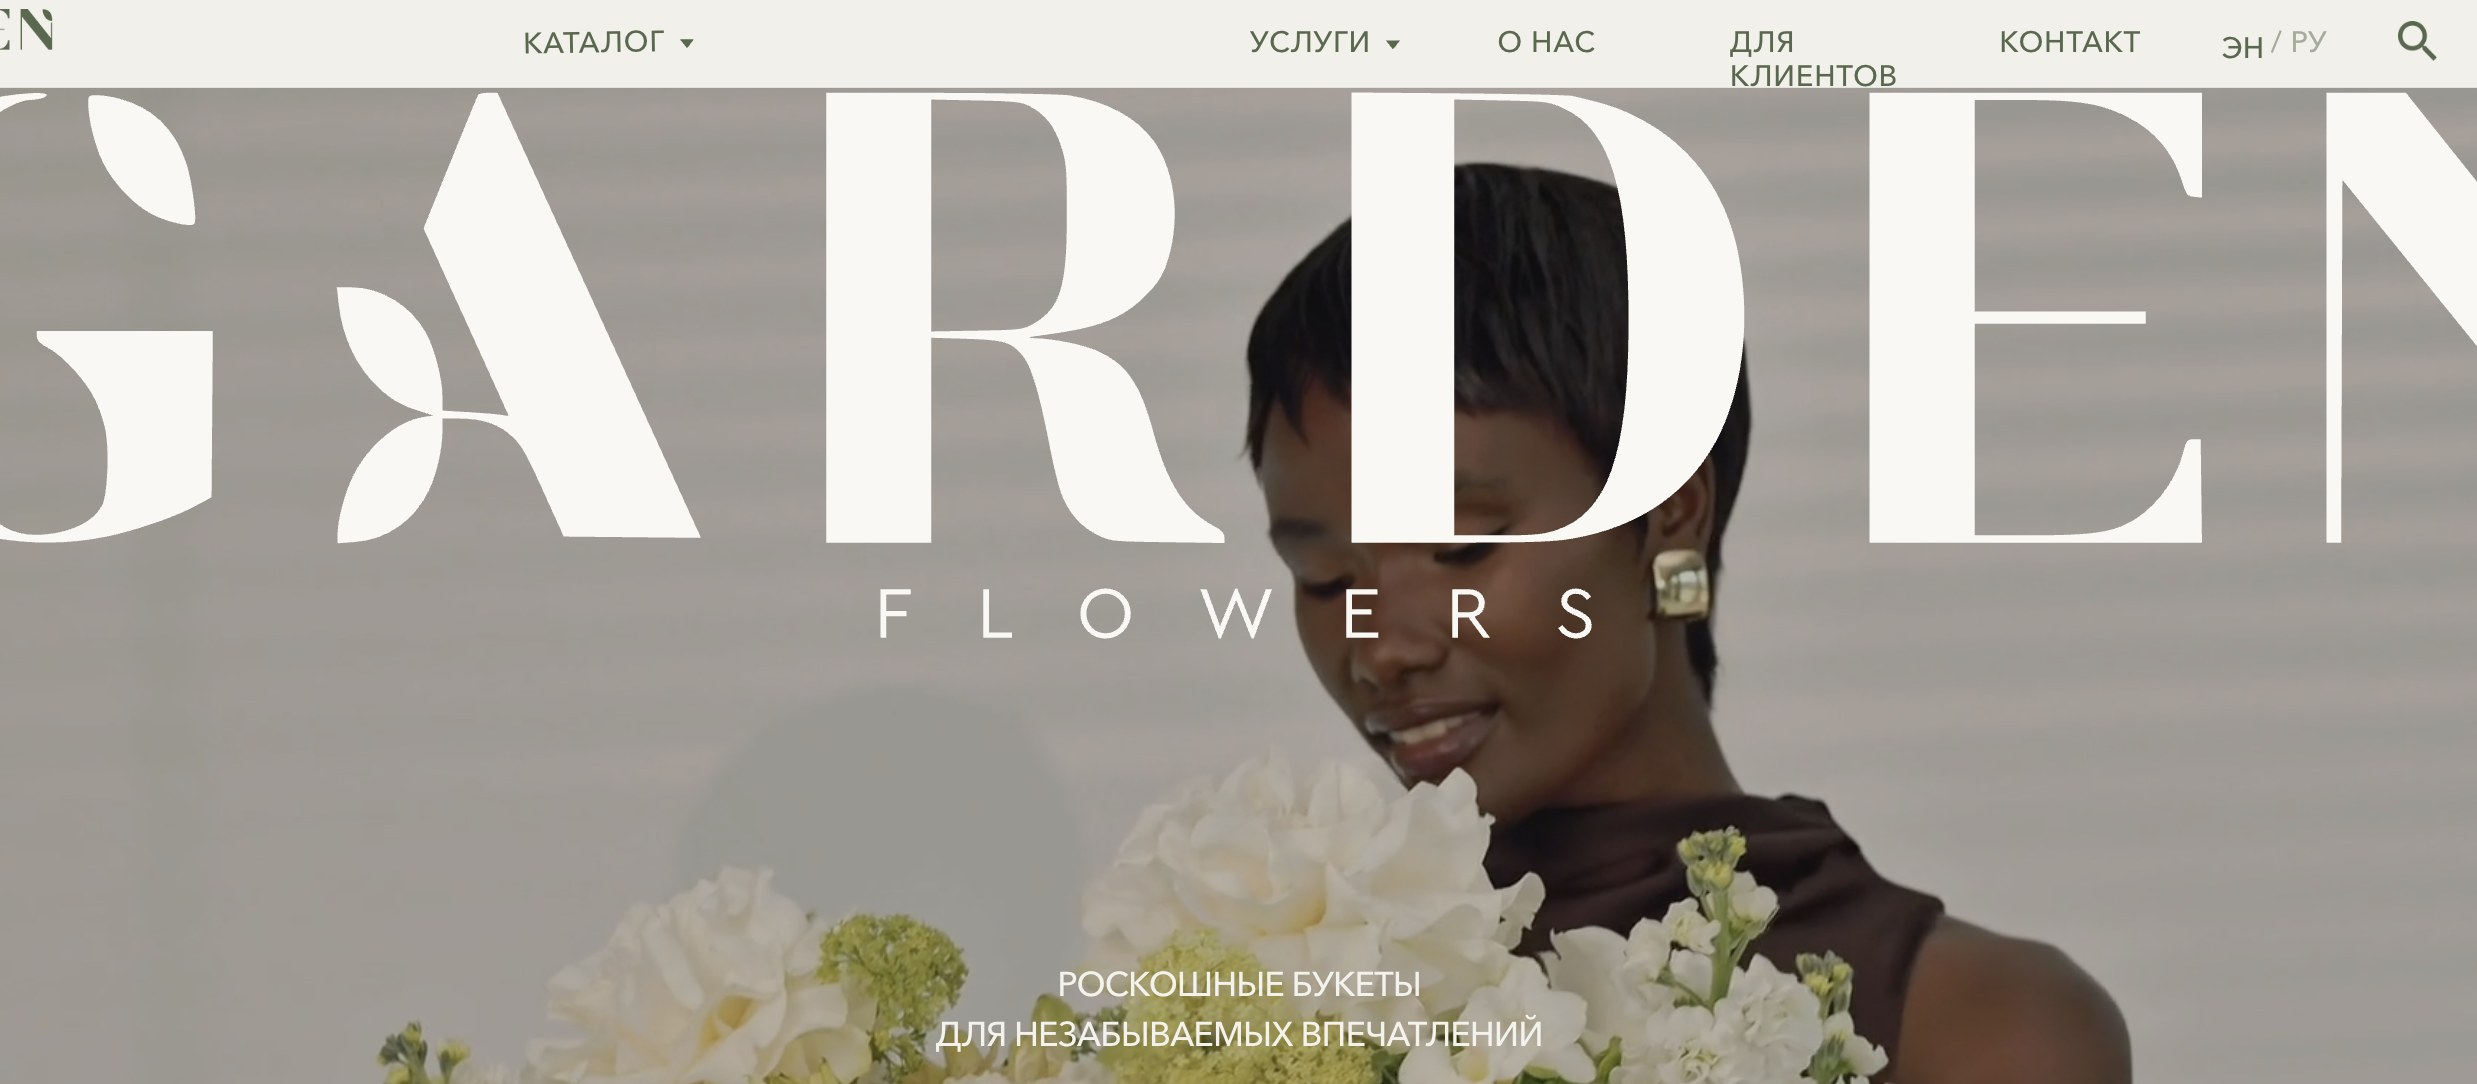
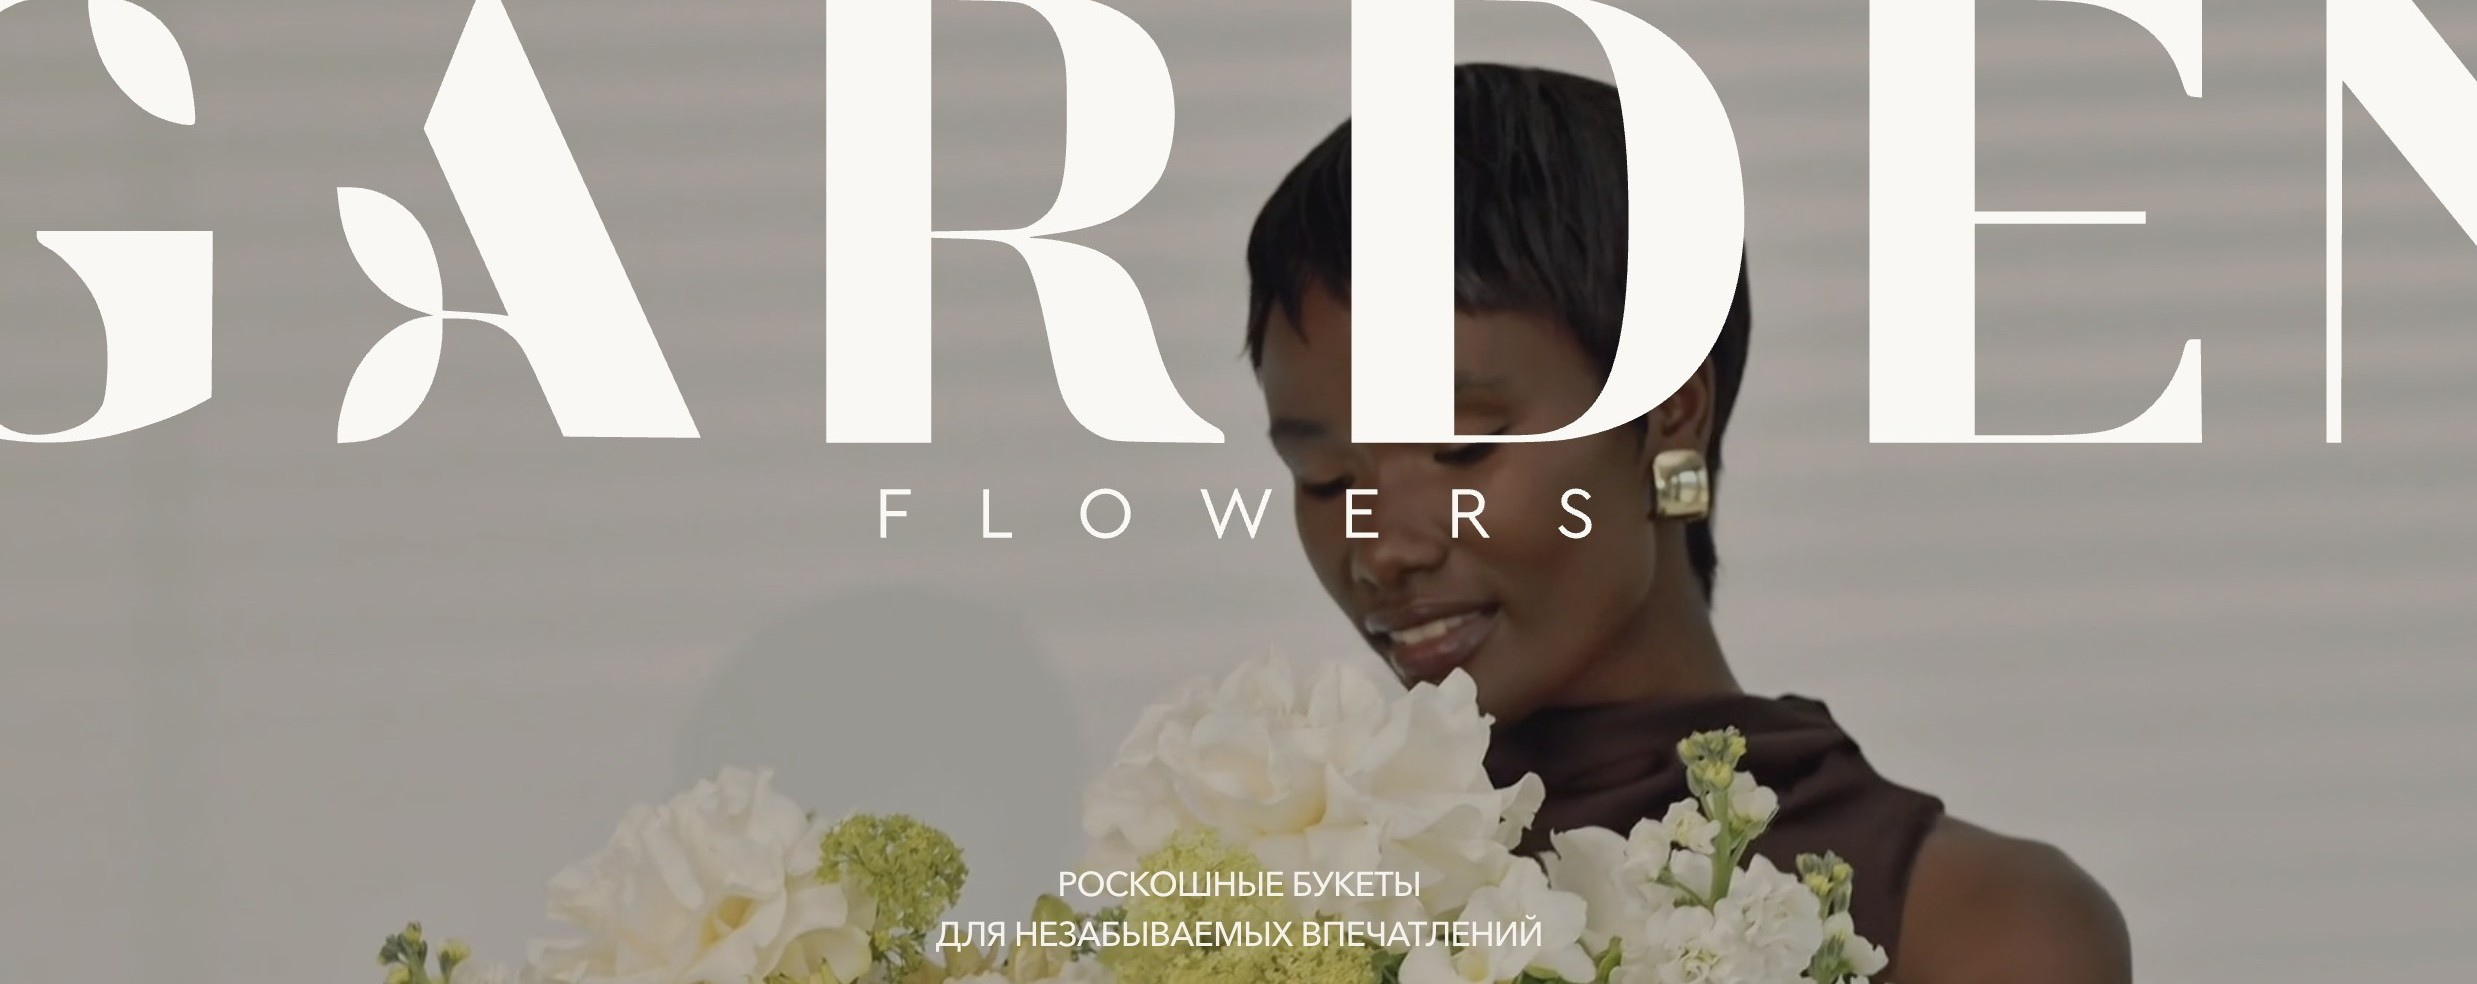
Add files via upload

diff --git a/index.html b/index.html
@@ -4,9 +4,38 @@
 <meta charset="UTF-8">
 <meta name="viewport" content="width=device-width, initial-scale=1.0">
 <title>Hipo Academy — Системное развитие бизнеса</title>
+<meta name="description" content="Обучение руководителей, построение отделов продаж и бизнес-консалтинг от Надежды Коноваловой. Практик с 10-летним опытом — управленческие игры, курсы и персональная работа для системного роста бизнеса.">
+<meta property="og:title" content="Hipo Academy — Системное развитие бизнеса">
+<meta property="og:description" content="Обучение руководителей, построение отделов продаж и бизнес-консалтинг. Практик с 10-летним опытом — для тех, кто хочет системный рост без хаоса.">
+<meta property="og:image" content="https://hipoacademy.ru/nadezhda-photo.jpg">
+<meta property="og:url" content="https://hipoacademy.ru/index.html">
+<link rel="canonical" href="https://hipoacademy.ru/index.html">
+<meta property="og:type" content="website">
+<meta property="og:locale" content="ru_RU">
+<meta name="twitter:card" content="summary_large_image">
+<link rel="icon" type="image/png" sizes="32x32" href="favicon-32x32.png">
+<link rel="icon" type="image/png" sizes="16x16" href="favicon-16x16.png">
+<link rel="apple-touch-icon" sizes="180x180" href="apple-touch-icon.png">
+<link rel="icon" href="favicon.ico">
 <link rel="preconnect" href="https://fonts.googleapis.com">
 <link rel="preconnect" href="https://fonts.gstatic.com" crossorigin>
 <link href="https://fonts.googleapis.com/css2?family=Cormorant+Garamond:ital,wght@0,400;0,500;0,600;0,700;1,400;1,500&family=Inter:wght@300;400;500;600&display=swap" rel="stylesheet">
+<script type="application/ld+json">
+{
+  "@context": "https://schema.org",
+  "@type": "ProfessionalService",
+  "name": "Hipo Academy",
+  "url": "https://hipoacademy.ru/",
+  "image": "https://hipoacademy.ru/nadezhda-photo.jpg",
+  "description": "Обучение руководителей, построение отделов продаж и бизнес-консалтинг от Надежды Коноваловой.",
+  "founder": {
+    "@type": "Person",
+    "name": "Надежда Коновалова"
+  },
+  "areaServed": "RU",
+  "sameAs": []
+}
+</script>
 <style>
 *{margin:0;padding:0;box-sizing:border-box}
 :root{

diff --git a/cases.html b/cases.html
@@ -4,6 +4,19 @@
 <meta charset="UTF-8">
 <meta name="viewport" content="width=device-width, initial-scale=1.0">
 <title>Кейсы — Hipo Academy</title>
+<meta name="description" content="Реальные кейсы клиентов Hipo Academy: Mochiland, Garden Flowers, Turinvoice и личные истории трансформации руководителей. Цифры, до/после и отзывы о работе с Надеждой Коноваловой.">
+<meta property="og:title" content="Кейсы — Hipo Academy">
+<meta property="og:description" content="Реальные кейсы клиентов: масштабирование, пересборка команд, рост выручки в 2 раза и личные истории трансформации руководителей.">
+<meta property="og:image" content="https://hipoacademy.ru/case-mochiland.jpg">
+<meta property="og:url" content="https://hipoacademy.ru/cases.html">
+<link rel="canonical" href="https://hipoacademy.ru/cases.html">
+<meta property="og:type" content="website">
+<meta property="og:locale" content="ru_RU">
+<meta name="twitter:card" content="summary_large_image">
+<link rel="icon" type="image/png" sizes="32x32" href="favicon-32x32.png">
+<link rel="icon" type="image/png" sizes="16x16" href="favicon-16x16.png">
+<link rel="apple-touch-icon" sizes="180x180" href="apple-touch-icon.png">
+<link rel="icon" href="favicon.ico">
 <link rel="preconnect" href="https://fonts.googleapis.com">
 <link rel="preconnect" href="https://fonts.gstatic.com" crossorigin>
 <link href="https://fonts.googleapis.com/css2?family=Cormorant+Garamond:ital,wght@0,400;0,500;0,600;0,700;1,400;1,500&family=Inter:wght@300;400;500;600&display=swap" rel="stylesheet">
@@ -220,7 +233,7 @@ footer{padding:2rem 2.5rem;border-top:1px solid var(--gold-border)}
   </div>
 
   <div class="case-photo" data-slot="garden-flowers">
-    <img src="case-garden-flowers.jpg" alt="Garden Flowers — премиальная флористика">
+    <img src="case-garden-flowers.jpg" alt="Garden Flowers — премиальная флористика" style="object-position:center 30%">
   </div>
 
   <div class="case-result">

diff --git a/korporaciya-zvezd.html b/korporaciya-zvezd.html
@@ -4,6 +4,19 @@
 <meta charset="UTF-8">
 <meta name="viewport" content="width=device-width, initial-scale=1.0">
 <title>Корпорация Звёзд — Управленческая игра | Hipo Academy</title>
+<meta name="description" content="«Корпорация Звёзд» — бизнес-трансформационная игра для развития 15 управленческих компетенций руководителя. Диагностика управленческого стиля, SWOT-анализ и развёрнутая обратная связь за одну сессию.">
+<meta property="og:title" content="Корпорация Звёзд — Управленческая игра | Hipo Academy">
+<meta property="og:description" content="Бизнес-трансформационная игра: 15 управленческих компетенций, диагностика стиля управления и SWOT-анализ за одну сессию.">
+<meta property="og:image" content="https://hipoacademy.ru/game-cover-new.jpg">
+<meta property="og:url" content="https://hipoacademy.ru/korporaciya-zvezd.html">
+<link rel="canonical" href="https://hipoacademy.ru/korporaciya-zvezd.html">
+<meta property="og:type" content="website">
+<meta property="og:locale" content="ru_RU">
+<meta name="twitter:card" content="summary_large_image">
+<link rel="icon" type="image/png" sizes="32x32" href="favicon-32x32.png">
+<link rel="icon" type="image/png" sizes="16x16" href="favicon-16x16.png">
+<link rel="apple-touch-icon" sizes="180x180" href="apple-touch-icon.png">
+<link rel="icon" href="favicon.ico">
 <link rel="preconnect" href="https://fonts.googleapis.com">
 <link rel="preconnect" href="https://fonts.gstatic.com" crossorigin>
 <link href="https://fonts.googleapis.com/css2?family=Cormorant+Garamond:ital,wght@0,400;0,500;0,600;0,700;1,400;1,600&family=Inter:wght@300;400;500;600;700&display=swap" rel="stylesheet">
@@ -212,7 +225,7 @@ footer{padding:2rem;border-top:1px solid var(--border)}
   <div class="hero-wrap">
     <div>
       <div class="hero-tag">Бизнес-трансформационная игра</div>
-      <div class="hero-title">Корпорация<br><em>Звёзд</em></div>
+      <h1 class="hero-title">Корпорация<br><em>Звёзд</em></h1>
       <div class="hero-subtitle">Единственная в мире управленческая симуляция</div>
       <p class="hero-desc">Участники погружаются в виртуальную реальность и принимают решения, исходя из своей привычной модели поведения. Игра показывает, как вы управляете командой прямо сейчас — и где ваши зоны роста.</p>
       <div class="hero-btns">

diff --git a/consulting.html b/consulting.html
@@ -4,6 +4,19 @@
 <meta charset="UTF-8">
 <meta name="viewport" content="width=device-width, initial-scale=1.0">
 <title>Бизнес-консалтинг и стратегия — Hipo Academy</title>
+<meta name="description" content="Бизнес-консалтинг для фаундеров и топ-менеджеров: построение системы продаж, пересборка команды, подготовка к франшизе. Не советы — рабочие механизмы, с сопровождением до результата.">
+<meta property="og:title" content="Бизнес-консалтинг и стратегия — Hipo Academy">
+<meta property="og:description" content="Работаю с фаундерами и топ-менеджерами. Не даю советы — строю рабочие механизмы и остаюсь до результата.">
+<meta property="og:image" content="https://hipoacademy.ru/nadezhda-photo.jpg">
+<meta property="og:url" content="https://hipoacademy.ru/consulting.html">
+<link rel="canonical" href="https://hipoacademy.ru/consulting.html">
+<meta property="og:type" content="website">
+<meta property="og:locale" content="ru_RU">
+<meta name="twitter:card" content="summary_large_image">
+<link rel="icon" type="image/png" sizes="32x32" href="favicon-32x32.png">
+<link rel="icon" type="image/png" sizes="16x16" href="favicon-16x16.png">
+<link rel="apple-touch-icon" sizes="180x180" href="apple-touch-icon.png">
+<link rel="icon" href="favicon.ico">
 <link rel="preconnect" href="https://fonts.googleapis.com">
 <link rel="preconnect" href="https://fonts.gstatic.com" crossorigin>
 <link href="https://fonts.googleapis.com/css2?family=Cormorant+Garamond:ital,wght@0,400;0,500;0,600;0,700;1,400;1,500&family=Inter:wght@300;400;500;600&display=swap" rel="stylesheet">

diff --git a/obuchenie.html b/obuchenie.html
@@ -4,6 +4,19 @@
 <meta charset="UTF-8">
 <meta name="viewport" content="width=device-width, initial-scale=1.0">
 <title>Обучение — Hipo Academy</title>
+<meta name="description" content="Курс «Мастер управления» — 9 модулей по системному управлению командой. Бесплатный стартовый курс в подарок. Авторская методология, проверенная на реальной практике руководителей.">
+<meta property="og:title" content="Обучение «Мастер управления» — Hipo Academy">
+<meta property="og:description" content="9 модулей по системному управлению людьми и командами. От бесплатного старта до глубокого погружения. Авторская методология на реальной практике.">
+<meta property="og:image" content="https://hipoacademy.ru/master-management-course.jpg">
+<meta property="og:url" content="https://hipoacademy.ru/obuchenie.html">
+<link rel="canonical" href="https://hipoacademy.ru/obuchenie.html">
+<meta property="og:type" content="website">
+<meta property="og:locale" content="ru_RU">
+<meta name="twitter:card" content="summary_large_image">
+<link rel="icon" type="image/png" sizes="32x32" href="favicon-32x32.png">
+<link rel="icon" type="image/png" sizes="16x16" href="favicon-16x16.png">
+<link rel="apple-touch-icon" sizes="180x180" href="apple-touch-icon.png">
+<link rel="icon" href="favicon.ico">
 <link rel="preconnect" href="https://fonts.googleapis.com">
 <link rel="preconnect" href="https://fonts.gstatic.com" crossorigin>
 <link href="https://fonts.googleapis.com/css2?family=Cormorant+Garamond:ital,wght@0,400;0,500;0,600;0,700;1,400;1,500&family=Inter:wght@300;400;500;600&display=swap" rel="stylesheet">

diff --git a/sales-force.html b/sales-force.html
@@ -4,6 +4,19 @@
 <meta charset="UTF-8">
 <meta name="viewport" content="width=device-width, initial-scale=1.0">
 <title>Hipo Sales Force — построение отдела продаж | Hipo Academy</title>
+<meta name="description" content="Построение отдела продаж под ключ: запуск за 30 дней, диагностика CRM и воронки, усиление команды, AI-квалификация лидов и автоматизация. Эксклюзивность по сегменту, еженедельная отчётность.">
+<meta property="og:title" content="Hipo Sales Force — построение отдела продаж">
+<meta property="og:description" content="Заявки есть, а продаж меньше, чем должно быть? Строю систему: запуск за 30 дней, отчёты каждую неделю, эксклюзивность по сегменту.">
+<meta property="og:image" content="https://hipoacademy.ru/sales-force-team.jpg">
+<meta property="og:url" content="https://hipoacademy.ru/sales-force.html">
+<link rel="canonical" href="https://hipoacademy.ru/sales-force.html">
+<meta property="og:type" content="website">
+<meta property="og:locale" content="ru_RU">
+<meta name="twitter:card" content="summary_large_image">
+<link rel="icon" type="image/png" sizes="32x32" href="favicon-32x32.png">
+<link rel="icon" type="image/png" sizes="16x16" href="favicon-16x16.png">
+<link rel="apple-touch-icon" sizes="180x180" href="apple-touch-icon.png">
+<link rel="icon" href="favicon.ico">
 <link rel="preconnect" href="https://fonts.googleapis.com">
 <link rel="preconnect" href="https://fonts.gstatic.com" crossorigin>
 <link href="https://fonts.googleapis.com/css2?family=Cormorant+Garamond:ital,wght@0,400;0,500;0,600;0,700;1,400;1,500&family=Inter:wght@300;400;500;600&display=swap" rel="stylesheet">

diff --git a/privacy.html b/privacy.html
@@ -4,6 +4,17 @@
 <meta charset="UTF-8">
 <meta name="viewport" content="width=device-width, initial-scale=1.0">
 <title>Политика конфиденциальности — Hipo Academy</title>
+<meta name="description" content="Политика конфиденциальности и обработки персональных данных сайта Hipo Academy.">
+<meta property="og:title" content="Политика конфиденциальности — Hipo Academy">
+<meta property="og:description" content="Политика конфиденциальности и обработки персональных данных сайта Hipo Academy.">
+<meta property="og:url" content="https://hipoacademy.ru/privacy.html">
+<link rel="canonical" href="https://hipoacademy.ru/privacy.html">
+<meta property="og:type" content="website">
+<meta property="og:locale" content="ru_RU">
+<link rel="icon" type="image/png" sizes="32x32" href="favicon-32x32.png">
+<link rel="icon" type="image/png" sizes="16x16" href="favicon-16x16.png">
+<link rel="apple-touch-icon" sizes="180x180" href="apple-touch-icon.png">
+<link rel="icon" href="favicon.ico">
 <link rel="preconnect" href="https://fonts.googleapis.com">
 <link rel="preconnect" href="https://fonts.gstatic.com" crossorigin>
 <link href="https://fonts.googleapis.com/css2?family=Cormorant+Garamond:ital,wght@0,400;0,500;0,600;0,700&family=Inter:wght@300;400;500;600&display=swap" rel="stylesheet">